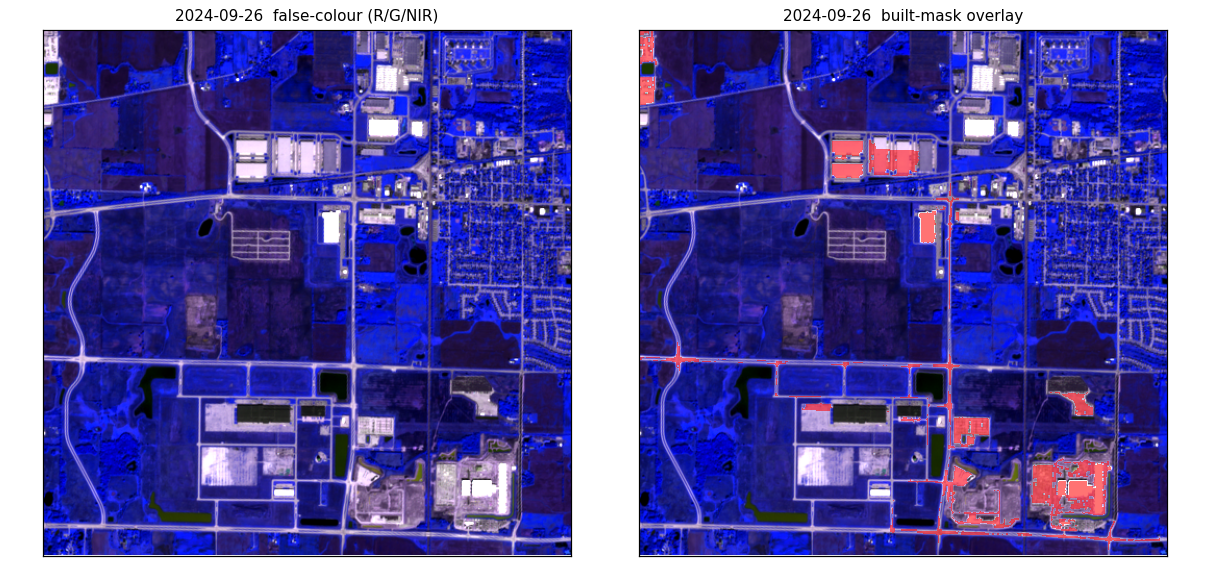
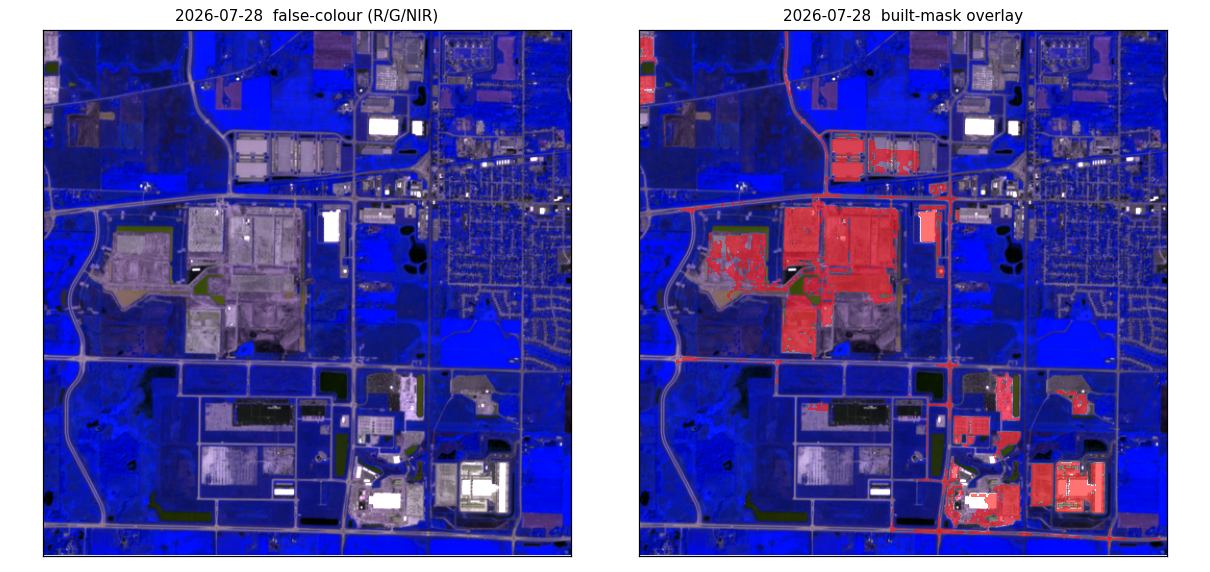
Update Orbital Capex thumbnail to the parcel-clipped run
The first run with the tax-parcel polygon actually in effect covers
2022Q1 to 2026Q3 and puts the mask on the campus itself rather than on
retail roofs across the town, so the overlay now shows what the method
is meant to isolate.

Card text updated with what that run does and does not support: the
series trends upward in step with the site's public timeline, but at
10 m the mask still takes in apron, parking and haul roads, so the level
is not yet a roof-area figure.

diff --git a/index.html b/index.html
@@ -946,14 +946,14 @@
                 <div class="card__image" style="margin-bottom: 0;">
                   <img
                     src="./assets/images/orbital-capex-mask.png"
-                    alt="Sentinel-2 false-colour scene beside the same scene with the built-roof mask overlaid, from threshold calibration"
+                    alt="Sentinel-2 false-colour scene beside the same scene with the built-surface mask overlaid, clipped to the owner's tax parcels"
                   />
                 </div>
                 <div class="project-list__content">
                   <div class="card__meta">Alt-data method in progress · Free Sentinel-2 imagery</div>
                   <h3 class="card__title">Orbital Capex</h3>
                   <p class="card__body">
-                    Hyperscaler AI capital expenditure is disclosed once a quarter. The construction sites are photographed from orbit every five days. This project measures built roof area and cleared ground at self-built US datacenter sites from free Sentinel-2 imagery, so that a quarterly, company-reported number can be checked against a weekly, self-collected one. Two findings shaped the method. NDBI, the standard built-up index, fails in reverse on the high-albedo membrane roofs these buildings use, excluding the newest construction precisely when the increment matters most. And grey metal roofing cannot be separated from dry bare soil in single-scene spectral space at all, so the pipeline separates them by temporal persistence instead, on the reasoning that a roof is permanent and a field is seasonal. Site boundaries come from county tax parcels queried by owner name and cross-checked against reported acreage, not from boxes drawn around an address. Status is openly Building: the pipeline runs end to end, thresholds are not yet calibrated, and the method claims nothing until a timestamped prediction has been scored against reported capex.
+                    Hyperscaler AI capital expenditure is disclosed once a quarter. The construction sites are photographed from orbit every five days. This project measures built roof area and cleared ground at self-built US datacenter sites from free Sentinel-2 imagery, so that a quarterly, company-reported number can be checked against a weekly, self-collected one. Two findings shaped the method. NDBI, the standard built-up index, fails in reverse on the high-albedo membrane roofs these buildings use, excluding the newest construction precisely when the increment matters most. And grey metal roofing cannot be separated from dry bare soil in single-scene spectral space at all, so the pipeline separates them by temporal persistence instead, on the reasoning that a roof is permanent and a field is seasonal. Site boundaries come from county tax parcels queried by owner name and cross-checked against reported acreage, not from boxes drawn around an address. Status is openly Building. The pipeline runs end to end and the first parcel-clipped series does trend upward in step with the site's public construction timeline, but at 10 m the mask still takes in apron, parking and haul roads alongside roofing, so the level is not yet a roof-area figure and the method claims nothing until a timestamped prediction has been scored against reported capex.
                   </p>
                   <div class="card__tags">
                     <span class="tag">Sentinel-2</span>
